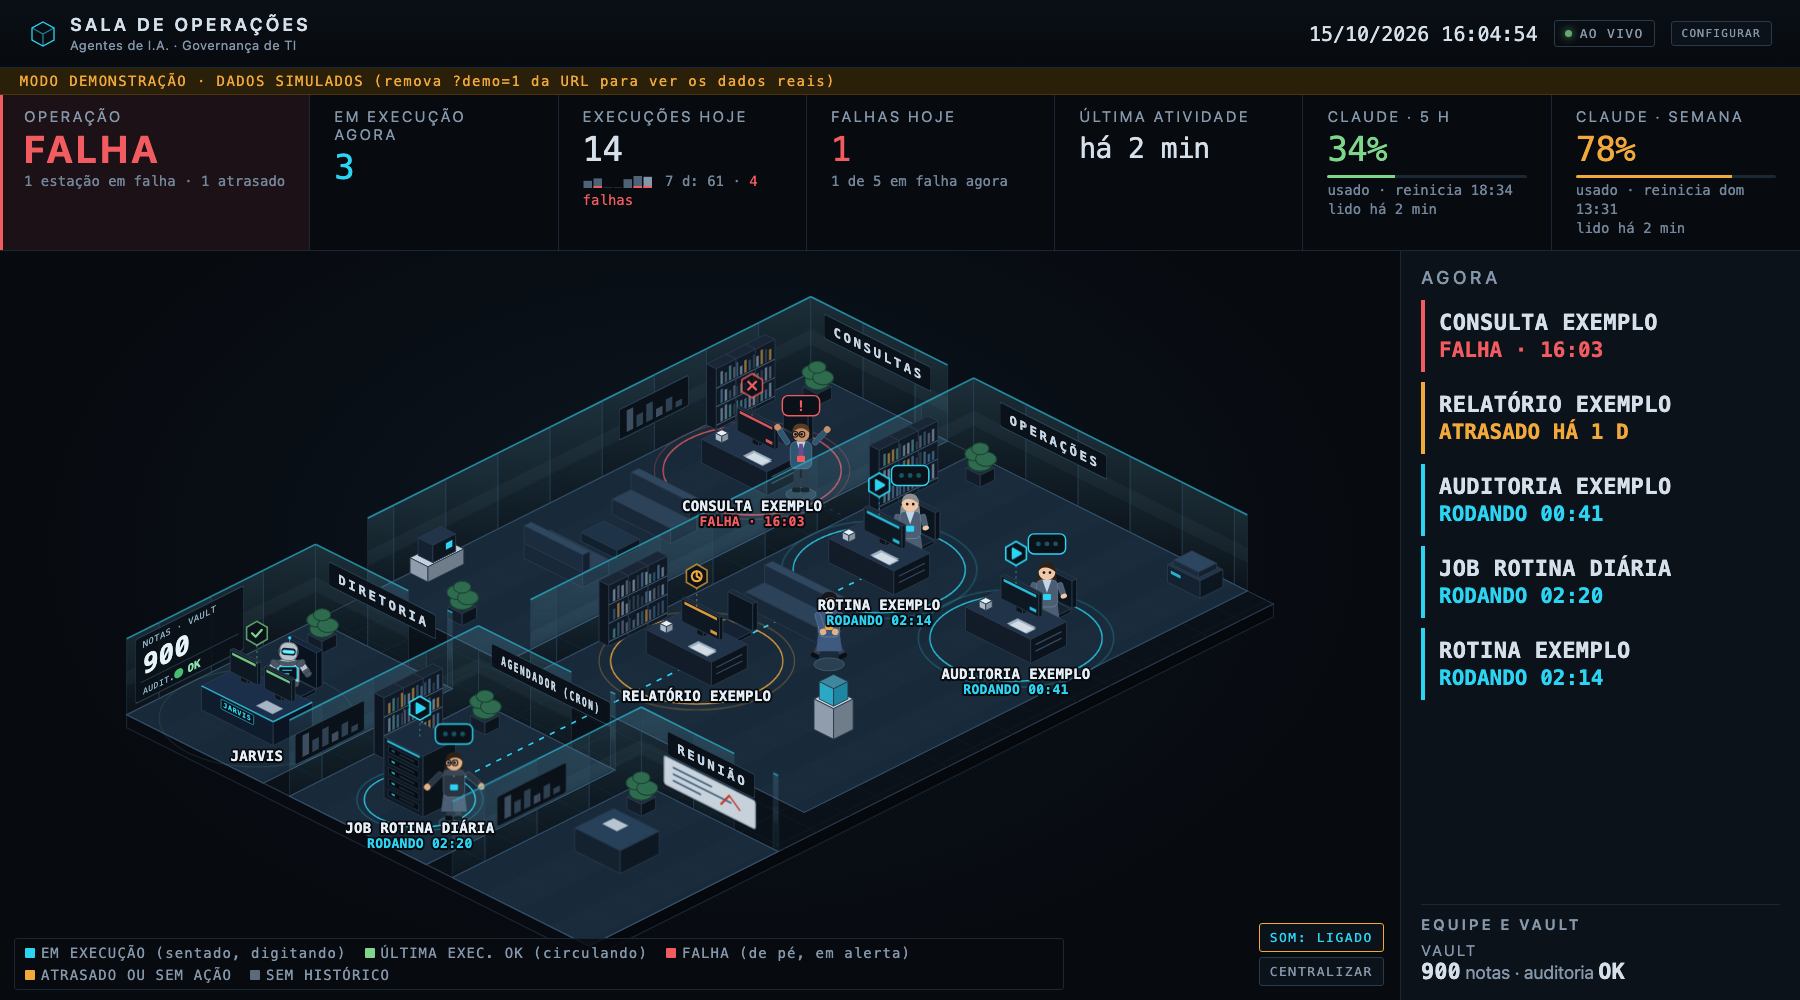
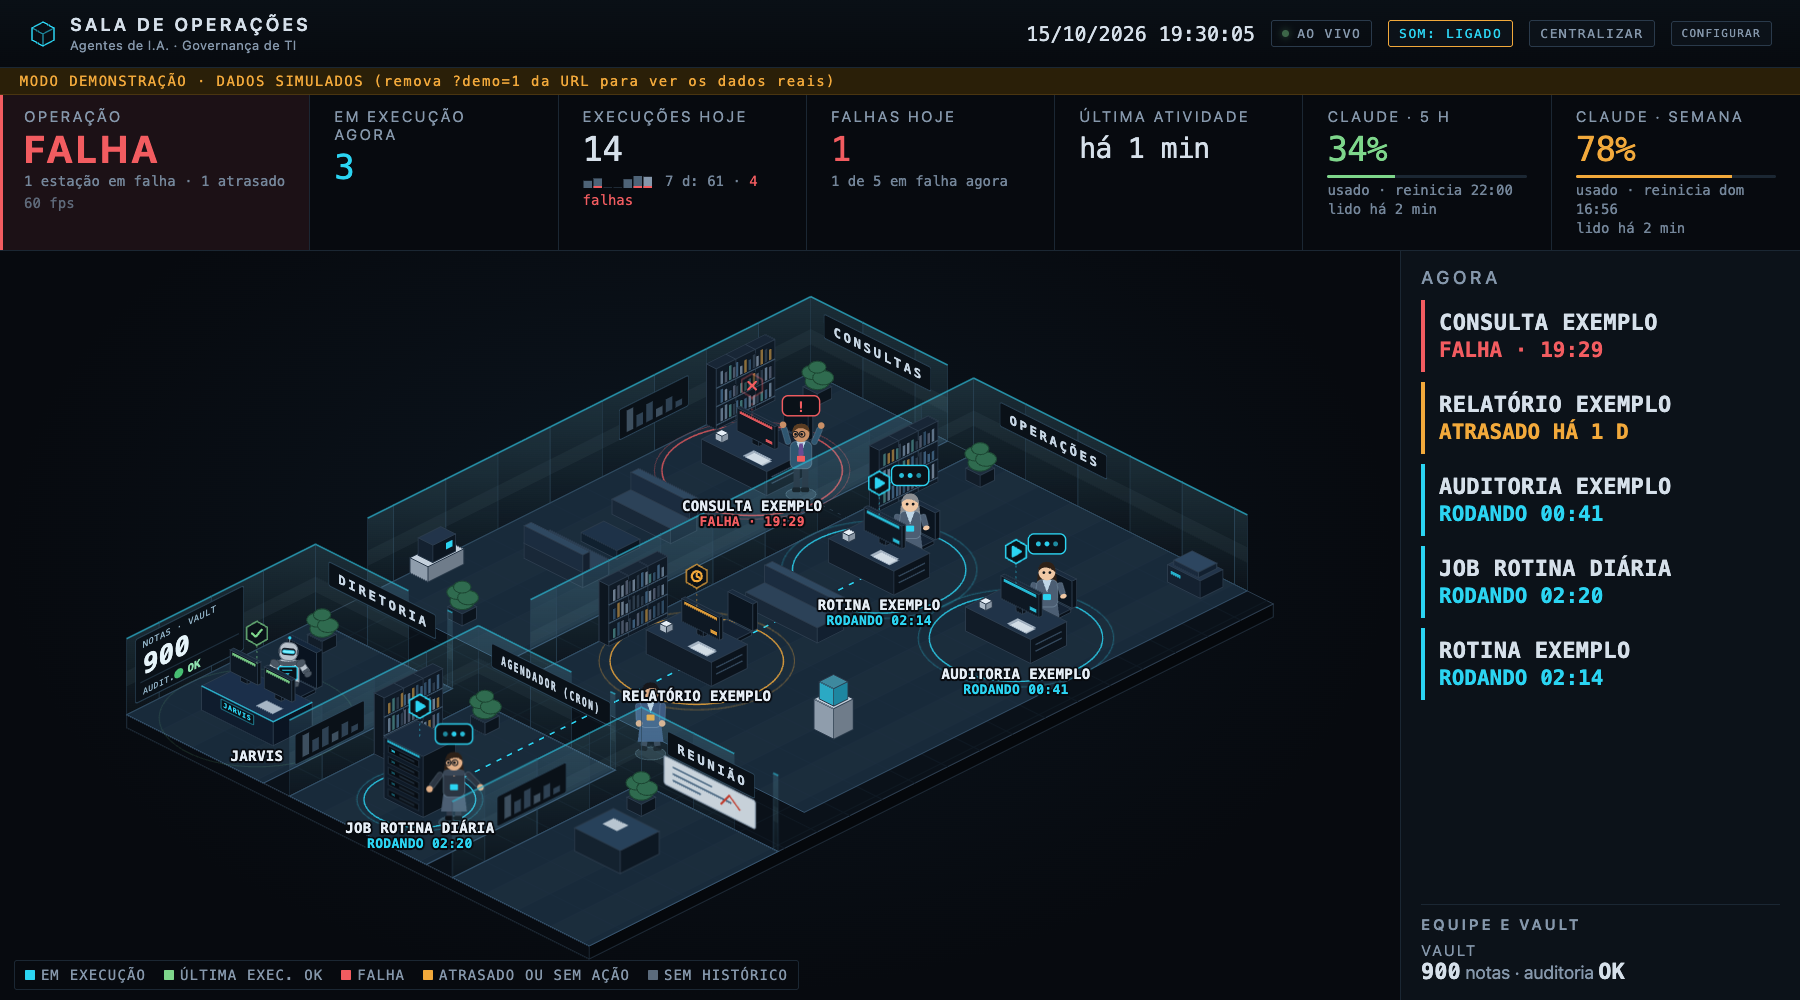
Botões no cabeçalho (chave OFFICE | LISTA, SOM e CENTRALIZAR), fps no card Operação, animação reduzida a 15 quadros/s, legenda só com o status; capturas refeitas

diff --git a/web/css/sala.css b/web/css/sala.css
@@ -31,9 +31,9 @@ main{display:grid;grid-template-columns:1fr 360px;min-height:0;flex:1}
 .legend{position:absolute;left:14px;bottom:10px;padding:6px 10px;background:rgba(7,10,15,.82);border:1px solid var(--line);border-radius:3px;pointer-events:none;display:flex;gap:6px 18px;font-family:var(--mono);font-size:11.5px;letter-spacing:.08em;color:var(--muted);flex-wrap:wrap;max-width:75%}
 .legend span{display:flex;align-items:center;gap:6px}
 .legend i{width:10px;height:10px;border-radius:1px;display:inline-block}
-#fit{position:absolute;right:16px;bottom:14px;background:var(--panel);color:var(--muted);border:1px solid var(--line2);font:11px var(--mono);letter-spacing:.12em;padding:6px 10px;border-radius:3px;cursor:pointer}
+#fit{background:var(--panel);color:var(--muted);border:1px solid var(--line2);font:11px var(--mono);letter-spacing:.12em;padding:5px 10px;border-radius:3px;cursor:pointer}   /* no cabeçalho desde 15/10/2026, ao lado do SOM */
 #fit:hover{color:var(--text);border-color:var(--cyan)}
-#som{position:absolute;right:16px;bottom:48px;background:var(--panel);color:var(--muted);border:1px solid var(--line2);font:11px var(--mono);letter-spacing:.12em;padding:6px 10px;border-radius:3px;cursor:pointer}
+#som{background:var(--panel);color:var(--muted);border:1px solid var(--line2);font:11px var(--mono);letter-spacing:.12em;padding:5px 10px;border-radius:3px;cursor:pointer}   /* no cabeçalho desde 15/10/2026: é um ajuste geral, não do mapa */
 #som:hover{color:var(--text);border-color:var(--cyan)} #som.on{color:var(--cyan);border-color:var(--cyan)} #som.pend{color:var(--cyan);border-color:var(--amber)}   /* ligado, mas o navegador ainda não liberou o áudio (libera no 1º clique ou tecla) */
 aside{border-left:1px solid var(--line);background:var(--panel);display:flex;flex-direction:column;min-height:0}
 .sec{padding:14px 18px;border-bottom:1px solid var(--line)}
@@ -115,6 +115,7 @@ dd{margin:0;font-family:var(--mono);font-size:12px;word-break:break-word}
 #k-op-v.r{color:var(--red)} #k-op-v.a{color:var(--amber)} #k-op-v.g{color:var(--green)}
 .kpi .bar{height:3px;background:var(--line);border-radius:2px;margin-top:6px;overflow:hidden} .kpi .bar i{display:block;height:100%;background:var(--green);width:0}
 .kpi .bar i.a{background:var(--amber)} .kpi .bar i.r{background:var(--red)}
+#k-fps{opacity:.75;font-variant-numeric:tabular-nums}
 .kpi .sub{display:block;font-family:var(--mono);font-size:10px;line-height:1.35;color:var(--dim);margin-top:3px;white-space:pre-line}
 @media (max-width:1000px){main{grid-template-columns:1fr}aside{border-left:0;border-top:1px solid var(--line)}.kpis{grid-template-columns:repeat(2,minmax(0,1fr))}.kpi{border-bottom:1px solid var(--line)}.stage{height:60vh}#lat{display:none}}
 @media (max-width:1400px){.legend{font-size:10.5px;gap:4px 12px}.kpi{padding:8px 14px}.kpi label{letter-spacing:.1em}}
@@ -133,11 +134,16 @@ dd{margin:0;font-family:var(--mono);font-size:12px;word-break:break-word}
 /* ---- menu CONFIGURAR ---- */
 #cfg{background:var(--panel);color:var(--muted);border:1px solid var(--line2);font:11px var(--mono);letter-spacing:.12em;padding:5px 10px;border-radius:3px;cursor:pointer}
 #cfg:hover,#lat:hover{color:var(--text);border-color:var(--cyan)}
-#lst{background:var(--panel);color:var(--muted);border:1px solid var(--line2);font:11px var(--mono);letter-spacing:.12em;padding:5px 10px;border-radius:3px;cursor:pointer}
-#lst:hover{color:var(--text);border-color:var(--cyan)} body.lista #lst{color:var(--cyan);border-color:var(--cyan)} body.tv #lst{display:none}
+/* chave OFFICE | LISTA: as duas opções escritas, a ativa acesa */
+#visao{display:flex;border:1px solid var(--line2);border-radius:3px;overflow:hidden}
+#visao button{all:unset;cursor:pointer;font:11px var(--mono);letter-spacing:.12em;padding:5px 10px;color:var(--dim);background:var(--panel)}
+#visao button+button{border-left:1px solid var(--line2)}
+#visao button[aria-pressed="true"]{color:var(--bg);background:var(--cyan);font-weight:600}
+#visao button:hover:not([aria-pressed="true"]){color:var(--text)} #visao button:focus-visible{outline:1px solid var(--cyan);outline-offset:-2px}
+body.tv #visao{display:none}
 /* modo lista: tabela no lugar da planta */
 #lista{display:none;position:absolute;inset:0;overflow:auto;padding:14px 18px 60px}
-body.lista:not(.tv) #lista{display:block} body.lista:not(.tv) #svg,body.lista:not(.tv) .legend,body.lista:not(.tv) #fit,body.lista:not(.tv) #som{display:none}
+body.lista:not(.tv) #lista{display:block} body.lista:not(.tv) #svg,body.lista:not(.tv) .legend,body.lista:not(.tv) #fit{display:none}
 #lista table{width:100%;border-collapse:collapse;font-size:12.5px}
 #lista caption{text-align:left;color:var(--dim);font:11px var(--mono);letter-spacing:.06em;padding:0 0 10px}
 #lista th{text-align:left;border-bottom:1px solid var(--line2);padding:0}

diff --git a/index.html b/index.html
@@ -16,7 +16,9 @@
   <div class="clock" id="fps" style="display:none"></div>
   <div class="clock" id="clock"></div>
   <div class="pill" id="live"><i></i><span>AO VIVO</span></div>
-  <button id="lst" aria-pressed="false" title="Ver as estações numa tabela ordenável (estado, sala, última execução, 7 dias, consumo)">LISTA</button>
+  <div id="visao" role="group" aria-label="Visão"><button data-v="office" aria-pressed="true" title="O escritório: planta com as estações e os funcionários">OFFICE</button><button data-v="lista" aria-pressed="false" title="As estações numa tabela ordenável (estado, sala, última execução, 7 dias, consumo)">LISTA</button></div>
+  <button id="som">SOM: LIGADO</button>
+  <button id="fit" title="Centralizar a planta inteira na tela (ou duplo clique). Clique na placa de uma sala para aproximar.">CENTRALIZAR</button>
   <button id="lat" title="Mostrar ou esconder o painel lateral (mais espaço para a planta em telas menores)">PAINEL</button>
   <button id="cfg" title="Tema (planta, Modo TV, 3D), animação, rótulos e som">CONFIGURAR</button>
   <div id="cfgmenu"></div>
@@ -24,7 +26,7 @@
 <div id="notice"></div>
 <div id="demo">MODO DEMONSTRAÇÃO · DADOS SIMULADOS (remova ?demo=1 da URL para ver os dados reais)</div>
 <section class="kpis">
-  <div class="kpi" id="k-op" role="status" aria-live="polite" title="Veredito da operação: FALHA se alguma estação está em falha; ATENÇÃO se há agente sem ação, rotina atrasada ou fonte de dados com problema; senão NORMAL"><label>Operação</label><b id="k-op-v" class="z">—</b><span class="sub" id="k-op-s"></span></div>
+  <div class="kpi" id="k-op" role="status" aria-live="polite" title="Veredito da operação: FALHA se alguma estação está em falha; ATENÇÃO se há agente sem ação, rotina atrasada ou fonte de dados com problema; senão NORMAL"><label>Operação</label><b id="k-op-v" class="z">—</b><span class="sub" id="k-op-s"></span><span class="sub" id="k-fps" aria-hidden="true" title="Quadros por segundo da animação, medidos neste navegador a cada segundo. O normal é a taxa da tela (60 num monitor comum, até 120 em telas ProMotion); na animação reduzida, cerca de 15. Bem abaixo disso = página pesada para esta máquina.">medindo fps…</span></div>
   <div class="kpi"><label>Em execução agora</label><b id="k-run" class="z">0</b></div>
   <div class="kpi" title="Execuções de agentes + jobs agendados sem agente (o job que roda um agente conta uma vez, pelo agente)"><label>Execuções hoje</label><b id="k-today" class="z">0</b><span class="sub" id="k-tend"></span></div>
   <div class="kpi"><label>Falhas hoje</label><b id="k-err" class="z">0</b><span class="sub" id="k-inerr"></span></div>
@@ -37,14 +39,12 @@
     <svg id="svg" viewBox="0 0 1040 640" preserveAspectRatio="xMidYMid meet" role="group" aria-label="Planta da sala: use Tab para percorrer as estações e Enter para abrir o detalhe"></svg>
     <div id="lista" aria-label="Estações em lista"></div>
     <div class="legend">
-      <span><i style="background:var(--cyan)"></i>EM EXECUÇÃO (sentado, digitando)</span>
-      <span><i style="background:var(--green)"></i>ÚLTIMA EXEC. OK (circulando)</span>
-      <span><i style="background:var(--red)"></i>FALHA (de pé, em alerta)</span>
+      <span><i style="background:var(--cyan)"></i>EM EXECUÇÃO</span>
+      <span><i style="background:var(--green)"></i>ÚLTIMA EXEC. OK</span>
+      <span><i style="background:var(--red)"></i>FALHA</span>
       <span><i style="background:var(--amber)"></i>ATRASADO OU SEM AÇÃO</span>
       <span><i style="background:var(--idle)"></i>SEM HISTÓRICO</span>
     </div>
-    <button id="som">SOM: LIGADO</button>
-    <button id="fit" title="Centralizar a planta inteira na tela (ou duplo clique). Clique na placa de uma sala para aproximar.">CENTRALIZAR</button>
   </div>
   <aside id="tvlista"><h2>Agora</h2><div id="tvitens"></div><div id="tvrodape"></div></aside>
   <aside id="lateral">

diff --git a/web/js/lista.js b/web/js/lista.js
@@ -1,6 +1,7 @@
 /* Sala de Operações · Modo lista, filtro da atividade recente e teclado (Fase 7, 15/10/2026).
    Modo lista: as mesmas estações numa tabela ordenável (estado, nome, sala, última, hoje, 7 dias, consumo), boa para celular,
-   leitor de tela e para achar uma estação rápido. Botão LISTA no cabeçalho ou ?lista=1; fica salvo no navegador.
+   leitor de tela e para achar uma estação rápido. Chave OFFICE | LISTA no cabeçalho (a opção ativa fica acesa) ou ?lista=1;
+   fica salvo no navegador.
    Teclado: Tab percorre as estações da planta (e as linhas da lista); Enter ou espaço abre o detalhe; Esc fecha. */
 let FEEDF=(()=>{try{return localStorage.getItem('sala_feed')==='excecoes'?'excecoes':'tudo'}catch(e){return 'tudo'}})();
 let LSORT={k:'est',d:1};
@@ -24,12 +25,12 @@ function renderLista(s){
 }
 function listaLigar(on){
   document.body.classList.toggle('lista',on); try{localStorage.setItem('sala_lista',on?'1':'0')}catch(e){}
-  $('lst').setAttribute('aria-pressed',String(on)); if(on)renderLista(STATE); else setTimeout(()=>window.dispatchEvent(new Event('resize')),0);
+  document.querySelectorAll('#visao button').forEach(b=>b.setAttribute('aria-pressed',String((b.dataset.v==='lista')===on))); if(on)renderLista(STATE); else setTimeout(()=>window.dispatchEvent(new Event('resize')),0);
 }
 function limparSel(){SEL=null;document.querySelectorAll('.st.selected').forEach(e=>e.classList.remove('selected'));
   $('detail').innerHTML='<h2>Estação</h2><div class="empty">Selecione uma estação (ou o funcionário dela) para ver modelo, histórico e agenda.</div>';renderLista(STATE)}
 (function(){
-  $('lst').addEventListener('click',()=>listaLigar(!document.body.classList.contains('lista')));
+  $('visao').addEventListener('click',e=>{const b=e.target.closest('button[data-v]');if(b)listaLigar(b.dataset.v==='lista')});
   $('lista').addEventListener('click',e=>{const b=e.target.closest('th button');
     if(b){const k=b.dataset.k;LSORT=LSORT.k===k?{k,d:-LSORT.d}:{k,d:k==='hoje'||k==='sem'||k==='tok'||k==='ult'?-1:1};renderLista(STATE);const nb=$('lista').querySelector(`th button[data-k="${k}"]`);if(nb)nb.focus();return}
     const r=e.target.closest('tr[data-id]'); if(r){select(r.dataset.id);renderLista(STATE)}});

diff --git a/web/js/funcionarios.js b/web/js/funcionarios.js
@@ -216,12 +216,19 @@ function renderWorker(w,t){
 /* ---------- laço de simulação ---------- */
 let LAST=0, SIMT=0;
 function sim(dt){SIMT+=dt;Object.values(WORKERS).forEach(w=>{stepWorker(w,dt);renderWorker(w,SIMT)});sortWorld();if(DBG)probe()}
-let FR=0,FT=0,FMAX=0;
+let FR=0,FT=0,FMAX=0,FD=0;   // FR = voltas do laço (taxa da tela); FD = quadros desenhados de fato (o que aparece como fps)
 let ACUM=0;
+// fps no card Operação (sempre visível, sem cor e fora do veredito); ?fps=1 mostra também voltas do laço e o pior quadro no topo
+function fpsMostrar(janela){
+  const n=Math.round(FD*1000/janela), el=$('k-fps');
+  if(el)el.textContent=CFG.anim==='desligada'?'animação desligada':n+' fps'+(CFG.anim==='reduzida'?' · reduzida':'');
+  if(QS.has('fps')){$('fps').style.display='';$('fps').textContent=Math.round(FR*1000/janela)+' voltas/s · '+n+' fps · script '+FMAX.toFixed(1)+' ms (pior quadro)'}
+}
 function loop(ts){const dt=Math.min(.1,(ts-LAST)/1000||0);LAST=ts;
   const t0=performance.now();
-  if(built&&CFG.anim==='completa')sim(dt);
-  else if(built&&CFG.anim==='reduzida'){ACUM+=dt;if(ACUM>=1/15){sim(Math.min(.1,ACUM));ACUM=0}}   // 15 quadros/s
+  if(built&&CFG.anim==='completa'){sim(dt);FD++}
+  else if(built&&CFG.anim==='reduzida'){ACUM+=dt;if(ACUM>=1/15-.004){sim(Math.min(.1,ACUM));ACUM=0;FD++}}   // 15 quadros/s
   const c=performance.now()-t0; FMAX=Math.max(FMAX,c);
-  if(QS.has('fps')){FR++;if(ts-FT>1000){$('fps').style.display='';$('fps').textContent=FR+' fps · script '+FMAX.toFixed(1)+' ms (pior quadro)';FR=0;FT=ts;FMAX=0}}
+  FR++;
+  if(ts-FT>=1000){ if(FT&&ts-FT<2500)fpsMostrar(ts-FT); FR=0;FD=0;FT=ts;FMAX=0 }   // janela longa = aba estava escondida (o navegador pausa): descarta, não mostra número falso
   requestAnimationFrame(loop)}

diff --git a/web/js/config.js b/web/js/config.js
@@ -25,6 +25,7 @@ function cfgAplicar(){
   const b=document.body;
   b.classList.toggle('tv',CFG.tema==='tv');
   ['reduzida','desligada'].forEach(a=>b.classList.toggle('anim-'+a,CFG.anim===a));
+  {const f=document.getElementById('k-fps'); if(f)f.textContent=CFG.anim==='desligada'?'animação desligada':'medindo fps…'}   // o número vem do laço, a cada segundo
   ['ativos','problemas','nenhum'].forEach(r=>b.classList.toggle('rot-'+r,CFG.rotulos===r));
   if(typeof cfgMenuSync==='function')cfgMenuSync();
 }

diff --git a/testar_sala.py b/testar_sala.py
@@ -41,6 +41,9 @@ def subir(env_extra):
     proc.kill(); raise SystemExit("servidor de teste não subiu")
 
 
+FPS = {}
+
+
 def pagina(porta, consulta, perfil):
     out = subprocess.run([CHROME, "--headless=new", "--disable-gpu", "--no-first-run", "--user-data-dir=" + perfil,
                           "--window-size=1920,1080", "--virtual-time-budget=30000", "--dump-dom",
@@ -49,6 +52,8 @@ def pagina(porta, consulta, perfil):
     m = re.search(r'<pre id="dbg">(OVERLAPS .*?)</pre>', out, re.S)   # o relatório começa sempre por OVERLAPS (o código da página vem embutido no HTML)
     if not m:
         return None, "página sem diagnóstico (erro ao carregar?)"
+    f = re.search(r'<span class="sub" id="k-fps"[^>]*>([^<]*)</span>', out)   # fps do card Operação (o valor real só se mede num navegador de verdade)
+    FPS[consulta] = f.group(1) if f else None
     txt = m.group(1)
     vals = {}
     for c in CONTADORES:
@@ -222,6 +227,10 @@ def _rodar(porta, q, perfil, falhas, nome):
     if vals is None:
         falhas.append("%s: %s" % (nome, det)); return (tuple([None] * len(CONTADORES)),)
     ruins = [c for c in CONTADORES if vals[c] != 0]
+    fps = FPS.get(q)
+    esperado = r"^animação desligada$" if "anim=desligada" in q else r"^(\d+ fps( · reduzida)?|medindo fps…)$"   # sob tempo virtual o relógio não anda: o número real é medido em fps_real()
+    if fps is None or not re.match(esperado, fps):
+        falhas.append("%s: fps do card Operação fora do formato: %r" % (nome, fps))
     if ruins:
         falhas.append("%s: %s\n   %s" % (nome, ", ".join("%s=%s" % (c, vals[c]) for c in ruins), det.replace("\n", "\n   ")))
     return (tuple(vals[c] for c in CONTADORES),)

diff --git a/README.md b/README.md
@@ -45,7 +45,8 @@ No topo, um veredito responde antes de tudo: **NORMAL**, **ATENÇÃO** ou **FALH
 - **Atividade sem ruído:** execuções repetidas viram uma linha só ("×6 · desde 09:00"), o destaque fica só para o que fugiu do normal e um clique mostra **só as exceções**.
 - **Tendência e consumo:** 7 dias de execuções e falhas no topo e em cada estação, com duração de cada execução e tokens e custo estimado por agente.
 - **Nada some sem aviso:** execução que morreu no meio do caminho, sem chegar ao fim, aparece como **INTERROMPIDA**.
-- **Modo lista:** as mesmas estações numa tabela ordenável por estado, sala, última execução ou consumo. Bom para o celular e para achar uma estação rápido.
+- **Escritório ou lista:** a chave OFFICE | LISTA no topo alterna entre a planta e as mesmas estações numa tabela ordenável por estado, sala, última execução ou consumo (a visão ativa fica acesa). Bom para o celular e para achar uma estação rápido. SOM e CENTRALIZAR também ficam no topo, junto com os demais controles.
+- **Fluidez à vista:** o card Operação mostra os quadros por segundo da animação, atualizados a cada segundo (o normal é a taxa da tela: 60 num monitor comum). Número bem abaixo disso indica que a página está pesada para aquela máquina.
 - **Pelo teclado:** Tab percorre as estações, Enter abre o detalhe e Esc fecha. As estações têm descrição para leitor de tela.
 - **Do seu jeito:** pelo menu **CONFIGURAR** você escolhe o tema, a intensidade da animação, quais rótulos aparecem e se as estações mostram nomes amigáveis ("Consulta AD") ou o id técnico.
 - **A equipe no mesmo lugar (opcional):** chamados em aberto, sem responsável, vencidos e encerrados no Agidesk, e o tempo de atendimento da semana, sempre como total da equipe. Ninguém vira placar individual.
